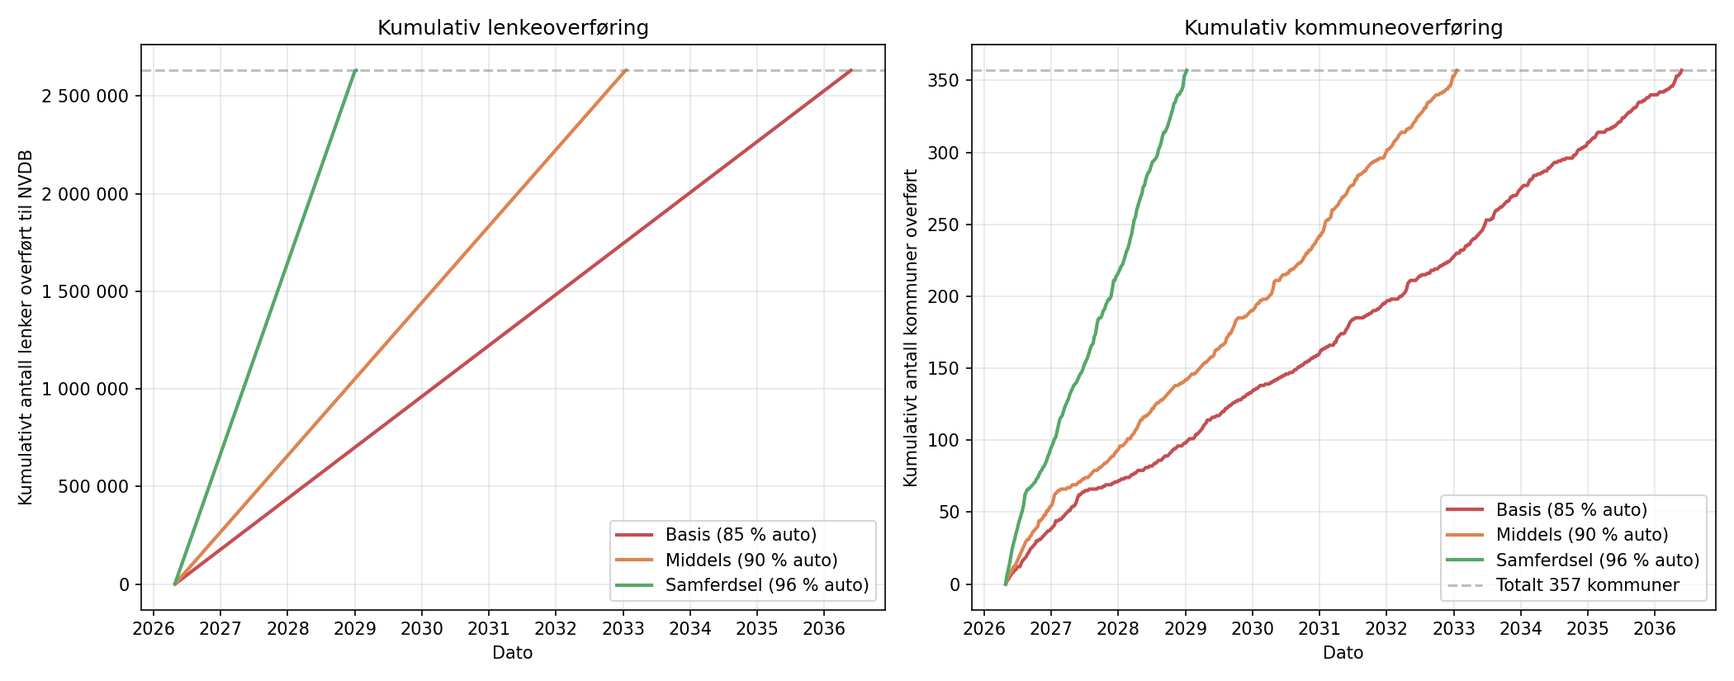
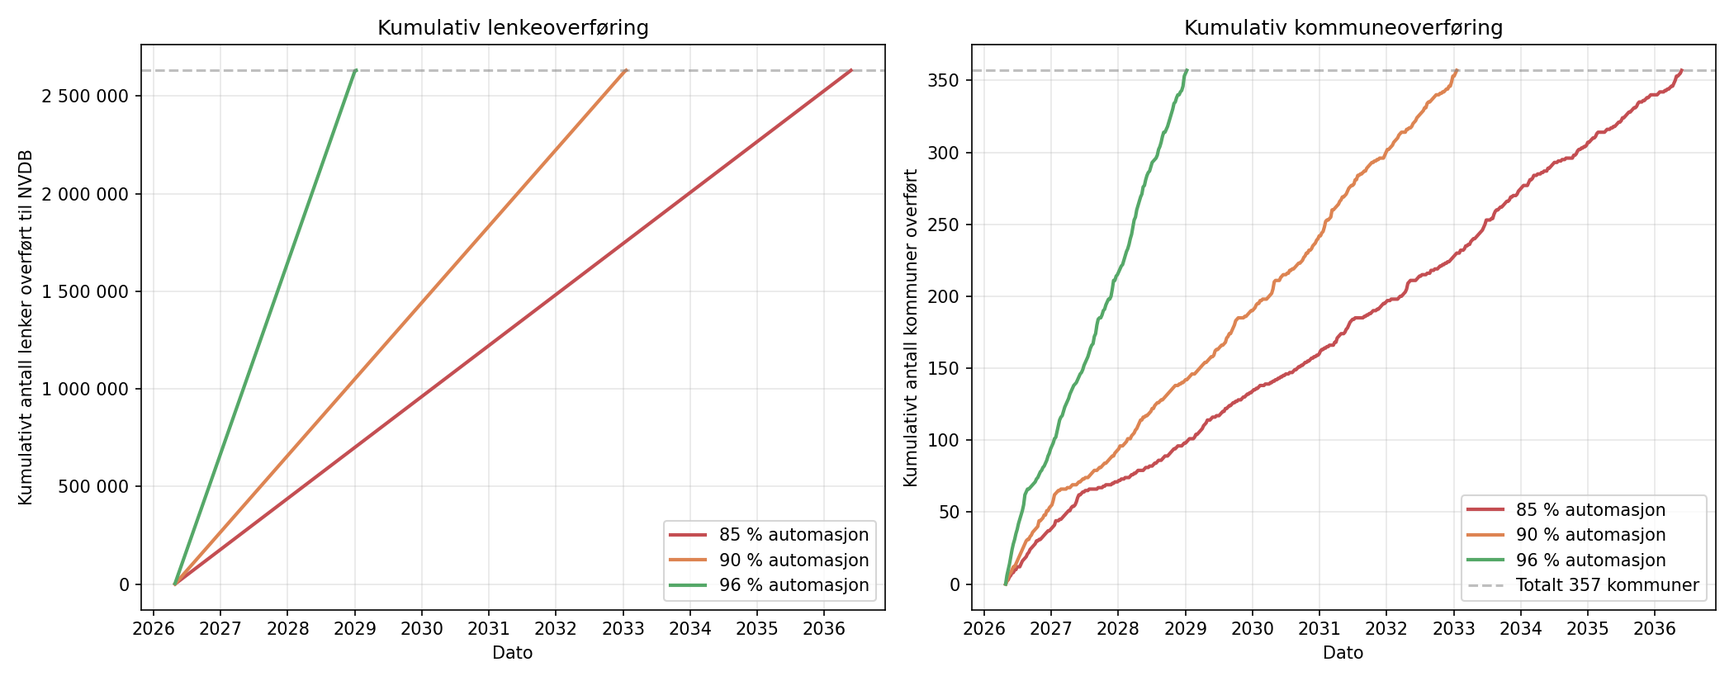
navnegrep: Basis_85/Middels_90/Samferdsel_96 -> 85/90/96 %-automasjon
Bytt CSV-interne scenarionavn med leservennlige prosent-baserte navn
i rapport.md, figur-skript og figur-PNG-er. CSV-filer og scenario-IDs
i Python-koden beholdes uendret (intern teknisk identifikator).

Endringer:
- rapport.md: 41 forekomster oppdatert
  - tabellrader: "Basis_85" -> "85 %" (osv.)
  - lopetekst: "Basis_85" -> "85 %-scenarioet" (osv.)
  - 5.1.5-tabellen restrukturert: redundant Scenario-kolonne fjernet
- figurer_resultater.py og figurer_usikkerhet.py: SCENARIO_NAVN dict oppdatert
- figurer_mip.py: ny SCENARIO_NAVN dict + vis()-hjelper, brukt i figur 14-19
- 11 PNG-figurer regenerert (07, 08, 11-16, 18, 19)

Changed region(s): [[0.8357, 0.7273, 0.9905, 0.8788], [0.3405, 0.7576, 0.4952, 0.8788]]

diff --git a/004 data/scripts/figurer_mip.py b/004 data/scripts/figurer_mip.py
@@ -38,6 +38,16 @@ FARGER = {
     'mip': '#D97706',
 }
 
+SCENARIO_NAVN = {
+    'Basis_85': '85 % automasjon',
+    'Middels_90': '90 % automasjon',
+    'Samferdsel_96': '96 % automasjon',
+}
+
+
+def vis(scenario):
+    return SCENARIO_NAVN.get(scenario, scenario)
+
 
 def aar_format(mnd):
     return f'{mnd / 12:.1f}'
@@ -62,7 +72,7 @@ def fig14_makespan_sammenligning():
         ax.text(i - w / 2, h + 0.1, f'{h:.2f}', ha='center', fontsize=9)
         ax.text(i + w / 2, m + 0.1, f'{m:.2f}', ha='center', fontsize=9)
     ax.set_xticks(x)
-    ax.set_xticklabels(scenarioer)
+    ax.set_xticklabels([vis(s) for s in scenarioer])
     ax.set_ylabel('Total varighet (aar)')
     ax.set_title('Prosjektvarighet: heuristikk vs. MIP')
     ax.legend()
@@ -80,7 +90,7 @@ def fig15_kartkontor_ferdig():
     for ax, scenario in zip(axes, ['Basis_85', 'Middels_90', 'Samferdsel_96']):
         mip_fil = os.path.join(DATA_DIR, f'tidsplan_mip_{MIP_MODE}_{scenario}.csv')
         if not os.path.exists(mip_fil):
-            ax.set_title(f'{scenario} (mangler)')
+            ax.set_title(f'{vis(scenario)} (mangler)')
             continue
         mip = pd.read_csv(mip_fil)
         heur_fil = os.path.join(DATA_DIR, f'tidsplan_{scenario}.csv')
@@ -93,7 +103,7 @@ def fig15_kartkontor_ferdig():
                 label='Heuristikk', color=FARGER['heuristikk'])
         ax.hist(mip_vals, bins=bins, alpha=0.55,
                 label='MIP', color=FARGER['mip'])
-        ax.set_title(scenario)
+        ax.set_title(vis(scenario))
         ax.set_xlabel('Kartkontor-ferdigmaaned')
         ax.legend()
         ax.grid(alpha=0.3)
@@ -128,7 +138,7 @@ def fig16_omfordeling_matrise(scenario='Middels_90'):
     ax.set_yticklabels(ordre)
     ax.set_xlabel('MIP-kontor')
     ax.set_ylabel('Ansvarlig kartkontor')
-    ax.set_title(f'Omfordeling fra ansvarlig kartkontor → MIP-kontor ({scenario})')
+    ax.set_title(f'Omfordeling fra ansvarlig kartkontor → MIP-kontor ({vis(scenario)})')
     for i in range(len(ordre)):
         for j in range(len(ordre)):
             v = matrise.values[i, j]
@@ -167,7 +177,7 @@ def fig18_kapasitet_sensitivitet():
         ax.set_xticks(range(len(sub)))
         ax.set_xticklabels(sub['Variant'], rotation=40, ha='right')
         ax.set_ylabel('Makespan (aar)')
-        ax.set_title(s)
+        ax.set_title(vis(s))
         ax.grid(axis='y', alpha=0.3)
     fig.suptitle('Kapasitets-sensitivitet: makespan per variant og NVDB-scenario')
     fn = os.path.join(FIG_DIR, '18_kapasitet_sensitivitet.png')
@@ -194,7 +204,7 @@ def fig19_omfordeling_varianter():
         sub = df[df['NVDB_Scenario'] == s].set_index('Variant').reindex(varianter)
         ax.bar(x + (i - (len(scenarioer) - 1) / 2) * w,
                sub['Kommuner_Omfordelt'], w,
-               label=s, color=FARGER.get(s, None))
+               label=vis(s), color=FARGER.get(s, None))
     ax.set_xticks(x)
     ax.set_xticklabels(varianter, rotation=35, ha='right')
     ax.set_ylabel('Antall omfordelte kommuner')

diff --git a/004 data/scripts/figurer_resultater.py b/004 data/scripts/figurer_resultater.py
@@ -31,9 +31,9 @@ plt.rcParams['font.size'] = 10
 
 SCENARIOER = ['Basis_85', 'Middels_90', 'Samferdsel_96']
 SCENARIO_NAVN = {
-    'Basis_85': 'Basis (85 % auto)',
-    'Middels_90': 'Middels (90 % auto)',
-    'Samferdsel_96': 'Samferdsel (96 % auto)',
+    'Basis_85': '85 % automasjon',
+    'Middels_90': '90 % automasjon',
+    'Samferdsel_96': '96 % automasjon',
 }
 SCENARIO_FARGER = {
     'Basis_85': '#c44e52',

diff --git a/004 data/scripts/figurer_usikkerhet.py b/004 data/scripts/figurer_usikkerhet.py
@@ -30,9 +30,9 @@ plt.rcParams['font.size'] = 10
 
 SCENARIOER = ['Basis_85', 'Middels_90', 'Samferdsel_96']
 SCENARIO_NAVN = {
-    'Basis_85': 'Basis (85 % auto)',
-    'Middels_90': 'Middels (90 % auto)',
-    'Samferdsel_96': 'Samferdsel (96 % auto)',
+    'Basis_85': '85 % automasjon',
+    'Middels_90': '90 % automasjon',
+    'Samferdsel_96': '96 % automasjon',
 }
 SCENARIO_FARGER = {
     'Basis_85': '#c44e52',

diff --git a/005 report/rapport.md b/005 report/rapport.md
@@ -181,7 +181,7 @@ Heuristikker gir gode løsninger raskt, men uten optimalitetsgaranti, og uten en
 
 Puchinger og Raidl (2005) klassifiserer kombinasjoner av metaheuristikker og eksakte algoritmer i to hovedtyper: *kollaborative* (heuristikk og eksakt-løser kjøres sekvensielt eller parallelt og utveksler informasjon), og *integrative* (én metode er innebygd i den andre, for eksempel heuristikk som varm-start for branch-and-bound). Denne oppgaven anvender en sekvensiell kollaborativ tilnærming: heuristikken gir en baseline som tjener både som rask tilnærming og som referanse for MIP-modellen, mens MIP-modellen — løst med CBC via PuLP — validerer at heuristikkens løsning ligger nær matematisk optimum.
 
-Designet gir to verdier som ingen av metodene alene leverer. Heuristikken alene gir ingen kvalitetssikring, og MIP-modellen alene har skaleringsbegrensninger ved store horisonter (Basis_85 ender Not Solved ved 30-minutters tidsgrense). Når begge metodene gir nær identisk makespan på et helt ulikt løsningsgrunnlag, er dette et sterkt validitetssignal: konvergens mellom uavhengige metoder reduserer risikoen for at et resultat er en artefakt av en bestemt modellantagelse.
+Designet gir to verdier som ingen av metodene alene leverer. Heuristikken alene gir ingen kvalitetssikring, og MIP-modellen alene har skaleringsbegrensninger ved store horisonter (85 %-scenarioet ender Not Solved ved 30-minutters tidsgrense). Når begge metodene gir nær identisk makespan på et helt ulikt løsningsgrunnlag, er dette et sterkt validitetssignal: konvergens mellom uavhengige metoder reduserer risikoen for at et resultat er en artefakt av en bestemt modellantagelse.
 
 ## 3.3 Usikkerhetsanalyse: Monte Carlo og bootstrap
 
@@ -285,7 +285,7 @@ Simuleringen kjører 260 mandag-fredag-dager per år. Kartkontorene har imidlert
 
 Konvensjonen ble låst i to trinn etter intern review og avklaring med oppdragsgiver. Først (2026-04-22) ble et skjult kapasitets-overbruk på 13 % korrigert: en tidligere versjon simulerte 260 dager/år men dividerte på 230 ved daglig kapasitet (260/230 = 1,130). Deretter (2026-04-24) ble 260-tallet erstattet med 245 etter avklaring fra oppdragsgiver om at faktiske produktive dager er ca. 245. Samlet effekt: makespan uendret i alle tre NVDB-scenarioer (NVDB dominerer flaskehalsen). Kartkontor-fasen forlenges marginalt: heuristikkens deterministiske siste-ferdigdato forskyves ~3 dager (fra 2027-09-13 til 2027-09-16), og medianvarigheten i Monte Carlo går fra 503 til 510 dager (+1,4 %). Den matematiske minimumsgrensen Min_Kartkontor_Mnd øker tilsvarende kapasitetskuttet (6,8 → 7,2 mnd, +5,9 %), men låseperiodene fra Geovekst-prosjektene absorberer mye av kuttet i de faktiske simuleringene.
 
-NVDB-overføringen beholder modellens 260-dagers kalenderkonvensjon ($\mu = \text{throughput per dag} \cdot 260/12$ lenker per måned i MIP). Samferdselsavdelingen opererer selv med 240 arbeidsdager/år i sin egen regnestykke, og det dokumenterte 240/260-gapet (modell 6,72 år vs samferdsels 7,22 år for Middels_90; ren skalering gir 7,22 × 240/260 ≈ 6,67, og modellens 6,72 ligger 0,05 år over dette pga. pre-ferdige kommuner og oppstart) er beholdt som drøftelsespoeng. Modellens relative resultater — sammenligning mellom scenarioer, sensitivitet på kapasitet, usikkerhetsbånd — er upåvirket av denne kalenderkonvensjonen; kun absolutt NVDB-varighet skifter proporsjonalt og er kjent.
+NVDB-overføringen beholder modellens 260-dagers kalenderkonvensjon ($\mu = \text{throughput per dag} \cdot 260/12$ lenker per måned i MIP). Samferdselsavdelingen opererer selv med 240 arbeidsdager/år i sin egen regnestykke, og det dokumenterte 240/260-gapet (modell 6,72 år vs samferdsels 7,22 år for 90 %-scenarioet; ren skalering gir 7,22 × 240/260 ≈ 6,67, og modellens 6,72 ligger 0,05 år over dette pga. pre-ferdige kommuner og oppstart) er beholdt som drøftelsespoeng. Modellens relative resultater — sammenligning mellom scenarioer, sensitivitet på kapasitet, usikkerhetsbånd — er upåvirket av denne kalenderkonvensjonen; kun absolutt NVDB-varighet skifter proporsjonalt og er kjent.
 
 ### 5.1.3 MIP-modellens målfunksjon
 
@@ -309,13 +309,13 @@ Manuell takt er satt til **300 lenker/person/dag** etter kalibrering mot samferd
 
 Tre NVDB-scenarioer undersøkes, differensiert på FME-automasjonsgrad som er den viktigste usikre variabelen:
 
-| Scenario | Auto | Total/dag (lenker) | Rasjonale |
-|----------|:---:|:---:|---|
-| Basis_85 | 85 % | 1 000 | Konservativ midtverdi fra samferdselsavdelingens oppgitte intervall 80–90 % |
-| Middels_90 | 90 % | 1 500 | Samferdselsavdelingens eksplisitte regnestykke (kalibreringspunkt) |
-| Samferdsel_96 | 96 % | 3 750 | Optimistisk øvre grense, bakoverregnet for å treffe et 2-års-mål |
+| FME-automasjon | NVDB-kapasitet (lenker/dag) | Rasjonale |
+|:---:|:---:|---|
+| 85 % | 1 000 | Konservativ midtverdi fra samferdselsavdelingens oppgitte intervall 80–90 % |
+| 90 % | 1 500 | Samferdselsavdelingens eksplisitte regnestykke (kalibreringspunkt) |
+| 96 % | 3 750 | Optimistisk øvre grense, bakoverregnet for å treffe et 2-års-mål |
 
-Samferdselsavdelingen opererer selv kun med 80–90 %. Samferdsel_96 er dermed ikke deres tall, men en hypotetisk målsetning for å kvantifisere hva FME-automasjon på "toppkvalitet" ville kreve. Dette gir Kartverket et argument for FME-investering: å nå fra 85 % til 96 % automasjonsgrad halverer total prosjektvarighet.
+Samferdselsavdelingen opererer selv kun med 80–90 %. 96 %-scenarioet er dermed ikke deres tall, men en hypotetisk målsetning for å kvantifisere hva FME-automasjon på "toppkvalitet" ville kreve. Dette gir Kartverket et argument for FME-investering: å nå fra 85 % til 96 % automasjonsgrad halverer total prosjektvarighet.
 
 ### 5.1.6 Monte Carlo-modellen
 
@@ -406,7 +406,7 @@ Arbeidsbelastningen varierer sterkt mellom kontorene, og også innad i hvert enk
 
 - Kapasitet oppgitt i ukesverk for 2026 antas å gjelde også for etterfølgende år i modellen.
 - Individuell effektivitet per saksbehandler er ikke modellert; kapasiteten behandles som en aggregert ressurs per kontor.
-- Samferdselsavdelingens eksplisitte regnestykke (300 lenker/dag/person manuelt, 0,5 årsverk, 240 arbeidsdager/år, 90 % automasjon) gir en estimert varighet på 7,22 år. Kalibreringen mot disse tallene (2026-04-20) fastsetter manuell takt til 300 lenker/dag og gir Middels_90-scenarioet som referansepunkt. Avvik mellom 80 % og 96 % automasjon håndteres via scenarioanalyse; måleusikkerhet innad i hvert scenario via Monte Carlo.
+- Samferdselsavdelingens eksplisitte regnestykke (300 lenker/dag/person manuelt, 0,5 årsverk, 240 arbeidsdager/år, 90 % automasjon) gir en estimert varighet på 7,22 år. Kalibreringen mot disse tallene (2026-04-20) fastsetter manuell takt til 300 lenker/dag og gir 90 %-scenarioet som referansepunkt. Avvik mellom 80 % og 96 % automasjon håndteres via scenarioanalyse; måleusikkerhet innad i hvert scenario via Monte Carlo.
 - Kommune-til-kontor-tildelingen er en beslutningsvariabel i optimeringsmodellen. Kolonnen `Kartkontor` i `master_kommuner.csv` angir dagens geografiske tildeling og brukes som baseline som den optimerte omfordelingen sammenlignes mot.
 
 ---
@@ -434,7 +434,7 @@ Regel 2 er en Longest Processing Time-heuristikk (Graham, 1969), som for paralle
 **Steg 3: Dag-for-dag-simulering.** For hver arbeidsdag:
 
 - Hvert kontor arbeider på første ikke-låste kommune i køen med daglig kapasitet $\kappa_j = K_j \cdot 37{,}5 \cdot (245/260) / 260$ timer (der $K_j$ er oppgitt kapasitet i ukesverk, 260 er antall mandag-fredag-dager per år, og 245/260-faktoren reflekterer at kontorene har ca. 245 effektive arbeidsdager pga ferieuttak — se 5.1.2). Når en kommune når 0 gjenværende timer, flyttes den til NVDB-køen.
-- Hvis dagen er etter NVDB-startdato, drenerer NVDB-køen med scenariets kapasitet (1 000 / 1 500 / 3 750 lenker/dag for hhv. Basis_85 / Middels_90 / Samferdsel_96 etter kalibrering mot samferdselsavdelingens tall, jf. 5.1.4).
+- Hvis dagen er etter NVDB-startdato, drenerer NVDB-køen med scenariets kapasitet (1 000 / 1 500 / 3 750 lenker/dag for hhv. 85 %, 90 % og 96 %-scenarioet etter kalibrering mot samferdselsavdelingens tall, jf. 5.1.4).
 
 **Bevisste forenklinger.** Heuristikken modellerer ikke ferier/pauser, individuell effektivitet eller oppstartskostnad ved kommuneskifte. Ansvarskontor-tildelingen er status quo (baseline) — omfordeling er en kjernebeslutning som undersøkes i MIP. Prioritetskøen fastsettes én gang ved simuleringsstart og revurderes ikke når låseperioder utløper; dette er en bevisst myopisk forenkling som MIP-modellen ikke deler, fordi MIP ser over hele horisonten. NVDB-køen bygges i rekkefølgen kommunene blir ferdige på kartkontoret (FCFS) — store kommuner tar lengst tid og havner dermed implisitt bakerst i NVDB-overføringen. Samferdselsavdelingen kan teoretisk prioritere annerledes, men reell NVDB-rekkefølge er utenfor prosjektets omfang.
 
@@ -446,7 +446,7 @@ Den matematiske optimeringsmodellen er formulert som et blandet heltallsproblem 
 
 - $I$ = aktive kommuner (ikke pre-ferdige), $|I| = 295$
 - $J$ = kartkontor, $|J| = 10$
-- $T$ = tidshorisont i måneder (144 for Basis_85, 96 for Middels_90, 54 for Samferdsel_96 — valgt med buffer over forventet makespan)
+- $T$ = tidshorisont i måneder (144 for 85 %-scenarioet, 96 for 90 %, 54 for 96 % — valgt med buffer over forventet makespan)
 - $\tau_i$ = timebehov på kartkontor for kommune *i*
 - $\ell_i$ = antall lenker som skal overføres til NVDB
 - $\kappa_j$ = månedlig kartkontor-kapasitet for kontor *j*: $K_j \cdot 37{,}5 \cdot (245/260) / 12$ timer/måned (tilsvarer heuristikkens daglige kapasitet × 260/12; 245/260-faktoren reflekterer effektive arbeidsdager, se 5.1.2)
@@ -543,7 +543,7 @@ To former for sensitivitet utforskes:
 
 ## 6.4 Implementeringsdetaljer
 
-Heuristikken (`heuristikk.py`) og Monte Carlo-motoren (`monte_carlo.py`) er implementert i Python 3.13 med pandas og numpy. MIP-modellen (`mip_modell.py`) bruker PuLP 3.3 med CBC som solver (versjon 2.10.3, gratis og innebygd i PuLP). Solver-tidsgrensen er satt til 30 minutter per scenario med relativ MIP-gap-toleranse 0,1 %; Middels_90 og Samferdsel_96 løser *Optimal* innen henholdsvis 16 og 10 minutter, mens Basis_85 ender som *Not Solved* etter 30 minutter (faktisk kjøretid drøyt 38 minutter pga. CBC-overshoot på siste B&B-node).
+Heuristikken (`heuristikk.py`) og Monte Carlo-motoren (`monte_carlo.py`) er implementert i Python 3.13 med pandas og numpy. MIP-modellen (`mip_modell.py`) bruker PuLP 3.3 med CBC som solver (versjon 2.10.3, gratis og innebygd i PuLP). Solver-tidsgrensen er satt til 30 minutter per scenario med relativ MIP-gap-toleranse 0,1 %; 90 % og 96 %-scenarioet løser *Optimal* innen henholdsvis 16 og 10 minutter, mens 85 %-scenarioet ender som *Not Solved* etter 30 minutter (faktisk kjøretid drøyt 38 minutter pga. CBC-overshoot på siste B&B-node).
 
 ---
 
@@ -551,15 +551,15 @@ Heuristikken (`heuristikk.py`) og Monte Carlo-motoren (`monte_carlo.py`) er impl
 
 ## 7.1 MIP vs. heuristikk — makespan
 
-Tabell 7.1 sammenligner total prosjektvarighet for heuristikken og MIP-modellen over de tre NVDB-scenarioene. MIP-modellen bruker vektet målfunksjon med tre lex-nivåer: makespan, kartkontor-ferdigtid og inertia (bevar ansvarskontor-tildelingen ved like løsninger). Middels_90 og Samferdsel_96 løser *Optimal* innen henholdsvis 16 og 10 minutter; Basis_85 ender som *Not Solved* ved 30-minutters tidsgrense (faktisk kjøretid drøyt 38 minutter siden CBC fullfører gjeldende B&B-node etter timeout), men returnerer en gyldig IP-feasible løsning hvor makespan er big-M-koblet til Q-variablene og dermed robust (jf. 7.4). Forskjellen i status mellom scenarioene reflekterer at lavere NVDB-throughput gir lengre horisont (T = 144 vs 96 vs 54 måneder) og dermed flere variabler.
+Tabell 7.1 sammenligner total prosjektvarighet for heuristikken og MIP-modellen over de tre NVDB-scenarioene. MIP-modellen bruker vektet målfunksjon med tre lex-nivåer: makespan, kartkontor-ferdigtid og inertia (bevar ansvarskontor-tildelingen ved like løsninger). 90 % og 96 %-scenarioet løser *Optimal* innen henholdsvis 16 og 10 minutter; 85 %-scenarioet ender som *Not Solved* ved 30-minutters tidsgrense (faktisk kjøretid drøyt 38 minutter siden CBC fullfører gjeldende B&B-node etter timeout), men returnerer en gyldig IP-feasible løsning hvor makespan er big-M-koblet til Q-variablene og dermed robust (jf. 7.4). Forskjellen i status mellom scenarioene reflekterer at lavere NVDB-throughput gir lengre horisont (T = 144 vs 96 vs 54 måneder) og dermed flere variabler.
 
 *Tabell 7.1 Makespan per metode og NVDB-scenario*
 
 | Scenario | Heuristikk (år) | MIP (år) | Differanse | MIP-status |
 |----------|:---:|:---:|:---:|:---:|
-| Basis_85 | 10,08 | 10,17 | +0,09 (+0,9 %) | Not Solved |
-| Middels_90 | 6,72 | 6,75 | +0,03 (+0,4 %) | Optimal |
-| Samferdsel_96 | 2,69 | 2,75 | +0,06 (+2,2 %) | Optimal |
+| 85 % | 10,08 | 10,17 | +0,09 (+0,9 %) | Not Solved |
+| 90 % | 6,72 | 6,75 | +0,03 (+0,4 %) | Optimal |
+| 96 % | 2,69 | 2,75 | +0,06 (+2,2 %) | Optimal |
 
 Alle differansene er under 2,5 % og skyldes MIP-modellens månedlige tidsoppløsning (hver måned avrundes opp ved kollisjon med NVDB-drenering). I praksis gir de to metodene *tilnærmet identisk makespan*. Dette er et positivt funn: **MIP bekrefter at heuristikkens ansvarskontor-tildeling er nær-optimal for makespan**, snarere enn å gi en reell forbedring. MIP-modellens bidrag er altså todelt — den leverer en uavhengig verifikasjon av heuristikken, og den leverer en komprimert kartkontor-ferdigprofil via lex-opt-prioritet (se 7.2). Figur 14 visualiserer resultatene.
 
@@ -567,7 +567,7 @@ Alle differansene er under 2,5 % og skyldes MIP-modellens månedlige tidsoppløs
 
 *Figur 14 Total varighet heuristikk vs MIP per NVDB-scenario*
 
-Bak makespan-tallene ligger NVDB-køens utvikling over tid (figur 7). Pre-ferdige kommuner gir en initiell kø-topp idet NVDB-overføringen starter; toppen bygges deretter ned i takt med den daglige throughput-kapasiteten i hvert scenario. Forskjellen mellom Basis_85, Middels_90 og Samferdsel_96 framkommer som tre tydelig adskilte nedbygningskurver. Figur 8 viser samme historie kumulativt for både lenker og kommuner, og illustrerer hvor mye raskere full overføring er ferdig ved høyere FME-automasjon.
+Bak makespan-tallene ligger NVDB-køens utvikling over tid (figur 7). Pre-ferdige kommuner gir en initiell kø-topp idet NVDB-overføringen starter; toppen bygges deretter ned i takt med den daglige throughput-kapasiteten i hvert scenario. Forskjellen mellom 85 %-, 90 %- og 96 %-scenarioene framkommer som tre tydelig adskilte nedbygningskurver. Figur 8 viser samme historie kumulativt for både lenker og kommuner, og illustrerer hvor mye raskere full overføring er ferdig ved høyere FME-automasjon.
 
 ![Figur 7: NVDB-koe over tid](figurer/07_nvdb_ko.png)
 
@@ -579,7 +579,7 @@ Bak makespan-tallene ligger NVDB-køens utvikling over tid (figur 7). Pre-ferdig
 
 ## 7.2 Kartkontor-ferdigstilling
 
-Heuristikken og MIP gir samme totalvarighet, men forskjellig profil for når kartkontor-arbeidet er ferdig. Figur 15 viser fordelingen: heuristikken ferdigstiller alle kommuner på kartkontoret innen ca. 16,5 måneder (medianverdi 4–5 måneder), mens MIP-planen — med den vektede målfunksjonen som straffer sen kartkontor-ferdigtid — komprimerer kartkontor-arbeidet ytterligere til innen 10–11 måneder (median 4 måneder). Begge er realistiske fra et ressursforvaltningssynspunkt: NVDB-delen alene tar 2,7–10,2 år avhengig av automasjonsgrad, så kartkontorene rekker uansett å levere alt materiale lenge før NVDB er ferdig. Monte Carlo på MIP-assignment bekrefter dette kvantitativt: kartkontor-ferdigstillelsens median flyttes fra 510 dager (heuristikk) ned til 409–452 dager på MIP-planen (Basis_85 452, Middels_90 445, Samferdsel_96 409), altså omtrent to til tre måneder raskere avhengig av scenario — en konkret organisatorisk gevinst som ikke reduserer total prosjektvarighet, men som frigjør saksbehandlere til andre oppgaver tidligere.
+Heuristikken og MIP gir samme totalvarighet, men forskjellig profil for når kartkontor-arbeidet er ferdig. Figur 15 viser fordelingen: heuristikken ferdigstiller alle kommuner på kartkontoret innen ca. 16,5 måneder (medianverdi 4–5 måneder), mens MIP-planen — med den vektede målfunksjonen som straffer sen kartkontor-ferdigtid — komprimerer kartkontor-arbeidet ytterligere til innen 10–11 måneder (median 4 måneder). Begge er realistiske fra et ressursforvaltningssynspunkt: NVDB-delen alene tar 2,7–10,2 år avhengig av automasjonsgrad, så kartkontorene rekker uansett å levere alt materiale lenge før NVDB er ferdig. Monte Carlo på MIP-assignment bekrefter dette kvantitativt: kartkontor-ferdigstillelsens median flyttes fra 510 dager (heuristikk) ned til 409–452 dager på MIP-planen (85 %-scenarioet 452, 90 % 445, 96 % 409), altså omtrent to til tre måneder raskere avhengig av scenario — en konkret organisatorisk gevinst som ikke reduserer total prosjektvarighet, men som frigjør saksbehandlere til andre oppgaver tidligere.
 
 ![Figur 15: Fordeling av kartkontor-ferdigmåned heuristikk vs MIP per NVDB-scenario](figurer/15_kartkontor_ferdig.png)
 
@@ -593,11 +593,11 @@ Figur 10 viser kartkontorenes kumulative fremdrift over tid for baseline-heurist
 
 ## 7.3 Omfordeling mellom kontor
 
-MIP-modellen har full frihet til å reassigne kommuner mellom kartkontor, men inertia-tie-breakeren favoriserer ansvarskontor-tildelingen i tilfeller hvor flere løsninger gir samme makespan. Resultatet (figur 16) viser at 27–71 kommuner flyttes avhengig av scenario, men disse er hovedsakelig tie-breakere for kartkontor-ferdigtid: ingen kommuner *må* omfordeles for å oppnå optimal makespan. Antallet varierer mellom 27 (Basis_85) og 71 (Samferdsel_96) på tvers av scenarioene; mønsteret reflekterer i hovedsak at vektet objektiv har flere likeverdige incumbenter, og CBC kan velge ulike kombinasjoner per scenario. Diagonalen dominerer i matrisen — kommuner blir i hovedsak værende på ansvarlig kartkontor — noe som bekrefter at status quo-tildelingen er nær-optimal. Det er verdt å merke at modellen regner omfordeling som "gratis" — den reelle organisatoriske kostnaden av at en kommune flyttes fra sitt geografiske fylkeskartkontor til et annet (arbeidskjennskap, kommunikasjon, kartverksprosesser) er ikke modellert og drøftes i 9.0.
+MIP-modellen har full frihet til å reassigne kommuner mellom kartkontor, men inertia-tie-breakeren favoriserer ansvarskontor-tildelingen i tilfeller hvor flere løsninger gir samme makespan. Resultatet (figur 16) viser at 27–71 kommuner flyttes avhengig av scenario, men disse er hovedsakelig tie-breakere for kartkontor-ferdigtid: ingen kommuner *må* omfordeles for å oppnå optimal makespan. Antallet varierer mellom 27 (85 %-scenarioet) og 71 (96 %) på tvers av scenarioene; mønsteret reflekterer i hovedsak at vektet objektiv har flere likeverdige incumbenter, og CBC kan velge ulike kombinasjoner per scenario. Diagonalen dominerer i matrisen — kommuner blir i hovedsak værende på ansvarlig kartkontor — noe som bekrefter at status quo-tildelingen er nær-optimal. Det er verdt å merke at modellen regner omfordeling som "gratis" — den reelle organisatoriske kostnaden av at en kommune flyttes fra sitt geografiske fylkeskartkontor til et annet (arbeidskjennskap, kommunikasjon, kartverksprosesser) er ikke modellert og drøftes i 9.0.
 
-![Figur 16: Omfordeling fra ansvarlig kartkontor til MIP-kontor for Middels_90](figurer/16_omfordeling_matrise.png)
+![Figur 16: Omfordeling fra ansvarlig kartkontor til MIP-kontor for 90 %-scenarioet](figurer/16_omfordeling_matrise.png)
 
-*Figur 16 Omfordeling fra ansvarlig kartkontor til MIP-kontor for Middels_90*
+*Figur 16 Omfordeling fra ansvarlig kartkontor til MIP-kontor for 90 %-scenarioet*
 
 ## 7.4 Kapasitets-sensitivitet
 
@@ -607,7 +607,7 @@ Figur 18 og 19 viser resultatet av sensitivitetsanalysen der kapasitet ved ett e
 
 Også kartkontor-ferdigmåneden er lite sensitiv til de undersøkte kapasitetsvariasjonene. I S0–S4 holder den seg i området 10–11 måneder; bare i S5_Alle_minus50 forskyves den til 14 måneder (matematisk nedre grense 14,4). Hovedårsaken er at låseperiodene fra Geovekst-prosjektene tvinger kontorene til å vente på mange kommuner uansett, slik at kontorene har romslig ledig tid å fordele arbeidet på innenfor den tiden NVDB-overføringen uansett tar.
 
-Av CBC-solverens 18 kjøringer løste 9 *Optimal* innen tidsgrensen (baseline S0 for Middels_90 og Samferdsel_96, S1_Trondheim50 for Middels_90, alle tre scenarioer for S2_Alle_pluss20, S3_Omfordeling for Middels_90 og Samferdsel_96, samt S4_Alle_minus15 for Basis_85); de resterende 9 endte med *Not Solved* ved 30-minutters timeout. Den vektede målfunksjonen gjør at CBC bevarer gyldige IP-feasible incumbenter selv ved timeout, så makespan-tallene er robuste (de er big-M-koblede til Q-variablene og styres av NVDB-drenering). For omfordelings- og kartkontor-ferdigtallene i Not Solved-variantene kan tallene være suboptimale uten at dette er bevist, så presise sammenligninger mellom varianter bør begrenses til ratio-nivå. S5_Alle_minus50 rapporterer Kartkontor_Siste_Mnd = 14 mot matematisk minimum 14,4 — en plausibel IP-feasible løsning, men ikke bevist optimal. Dette gir en konkret indikasjon på hvor kartkontor-fasen begynner å nærme seg det kapasitetsbundne regimet (ytterligere kutt under 50 % kapasitet ville med høy sannsynlighet tippe over i kartkontor-bundet regime).
+Av CBC-solverens 18 kjøringer løste 9 *Optimal* innen tidsgrensen (baseline S0 for 90 %- og 96 %-scenarioet, S1_Trondheim50 for 90 %, alle tre scenarioer for S2_Alle_pluss20, S3_Omfordeling for 90 % og 96 %, samt S4_Alle_minus15 for 85 %); de resterende 9 endte med *Not Solved* ved 30-minutters timeout. Den vektede målfunksjonen gjør at CBC bevarer gyldige IP-feasible incumbenter selv ved timeout, så makespan-tallene er robuste (de er big-M-koblede til Q-variablene og styres av NVDB-drenering). For omfordelings- og kartkontor-ferdigtallene i Not Solved-variantene kan tallene være suboptimale uten at dette er bevist, så presise sammenligninger mellom varianter bør begrenses til ratio-nivå. S5_Alle_minus50 rapporterer Kartkontor_Siste_Mnd = 14 mot matematisk minimum 14,4 — en plausibel IP-feasible løsning, men ikke bevist optimal. Dette gir en konkret indikasjon på hvor kartkontor-fasen begynner å nærme seg det kapasitetsbundne regimet (ytterligere kutt under 50 % kapasitet ville med høy sannsynlighet tippe over i kartkontor-bundet regime).
 
 ![Figur 18: Makespan per kapasitetsvariant og NVDB-scenario](figurer/18_kapasitet_sensitivitet.png)
 
@@ -627,15 +627,15 @@ Antallet omfordelte kommuner varierer mellom variantene (figur 19), noe som refl
 
 ## 7.5 Usikkerhetsanalyse
 
-Monte Carlo-simuleringen (500 iterasjoner per scenario × tre stokastiske kilder) kjøres både med heuristikkens ansvarskontor-tildeling og med MIP-ens optimerte tildeling som fast plan. Totalvarighet-båndene er overlappende og nær identiske (tabell 7.2). For Basis_85 og Middels_90 gir de to planene *identiske* percentiler (P5 / P50 / P95). For Samferdsel_96 er P5 marginalt bedre på MIP-planen (1,10 år vs 1,38), mens P50 og P95 er like. Dette viser at de to tildelingsregimene er omtrent likeverdige når det gjelder robusthet mot modellens stokastiske kilder, siden NVDB-overføringen dominerer varigheten i alle iterasjoner. Kartkontor-fasen blir derimot merkbart raskere på MIP-planen (P50 kartkontor-varighet 409–452 dager mot heuristikkens 510 dager) — en konsekvens av MIPens mer aktive omfordeling. Denne forskjellen er skjult i total varighet fordi NVDB-slakken absorberer den, men er reell fra et organisatorisk synspunkt.
+Monte Carlo-simuleringen (500 iterasjoner per scenario × tre stokastiske kilder) kjøres både med heuristikkens ansvarskontor-tildeling og med MIP-ens optimerte tildeling som fast plan. Totalvarighet-båndene er overlappende og nær identiske (tabell 7.2). For 85 %- og 90 %-scenarioet gir de to planene *identiske* percentiler (P5 / P50 / P95). For 96 %-scenarioet er P5 marginalt bedre på MIP-planen (1,10 år vs 1,38), mens P50 og P95 er like. Dette viser at de to tildelingsregimene er omtrent likeverdige når det gjelder robusthet mot modellens stokastiske kilder, siden NVDB-overføringen dominerer varigheten i alle iterasjoner. Kartkontor-fasen blir derimot merkbart raskere på MIP-planen (P50 kartkontor-varighet 409–452 dager mot heuristikkens 510 dager) — en konsekvens av MIPens mer aktive omfordeling. Denne forskjellen er skjult i total varighet fordi NVDB-slakken absorberer den, men er reell fra et organisatorisk synspunkt.
 
 *Tabell 7.2 Usikkerhetsbånd totalvarighet (P5 / P50 / P95, år) – MIP-plan og heuristikk-plan*
 
 | Scenario | MIP-plan | Heuristikk-plan |
 |----------|:---:|:---:|
-| Basis_85 | 6,46 / 10,01 / 13,28 | 6,46 / 10,01 / 13,28 |
-| Middels_90 | 3,25 / 6,67 / 9,91 | 3,25 / 6,67 / 9,91 |
-| Samferdsel_96 | 1,10 / 2,36 / 5,88 | 1,38 / 2,36 / 5,88 |
+| 85 % | 6,46 / 10,01 / 13,28 | 6,46 / 10,01 / 13,28 |
+| 90 % | 3,25 / 6,67 / 9,91 | 3,25 / 6,67 / 9,91 |
+| 96 % | 1,10 / 2,36 / 5,88 | 1,38 / 2,36 / 5,88 |
 
 Figur 11 visualiserer Monte Carlo-fordelingen av NVDB-overføringen som et fanchart, der det skyggelagte området angir P5–P95-båndet og medianlinjen viser sentralverdien. Båndets bredde reflekterer hvor mye automasjonsgrad og manuell takt sammen varierer på tvers av iterasjonene. Figur 12 viser fordelingen av total prosjektvarighet per scenario som histogrammer, og figur 13 viser hvordan medianverdi for NVDB-ferdigdato per kommune varierer på tvers av kartkontorene.
 
@@ -649,9 +649,9 @@ Figur 11 visualiserer Monte Carlo-fordelingen av NVDB-overføringen som et fanch
 
 ![Figur 13: Per-kontor boxplot av median NVDB-ferdig per kommune](figurer/13_per_kontor_boxplot.png)
 
-*Figur 13 Spredning i median NVDB-ferdigdato per kommune, gruppert på kartkontor (Middels_90)*
+*Figur 13 Spredning i median NVDB-ferdigdato per kommune, gruppert på kartkontor (90 %-scenarioet)*
 
-Den dominerende usikkerhetskilden er automasjonsgraden i FME-overføringen (jf. figur 11–13). Med den kalibrerte måleusikkerheten (AUTOMASJON_STD = 0,03) overlapper scenariobåndene realistisk: P95 for Samferdsel_96 (5,88 år) ligger over P5 for Middels_90 (3,25 år), og P95 for Middels_90 (9,91 år) ligger over P5 for Basis_85 (6,46 år). Dette speiler den faktiske usikkerheten i hvor mye FME-automasjonen kan presses. *Valget av automasjonsgrad forblir den viktigste strategiske faktoren* for totalvarigheten — men usikkerhetsintervallene viser at det er betydelig spillerom innenfor hvert scenario også, og at god FME-utvikling kan forskyve punktestimatet betydelig.
+Den dominerende usikkerhetskilden er automasjonsgraden i FME-overføringen (jf. figur 11–13). Med den kalibrerte måleusikkerheten (AUTOMASJON_STD = 0,03) overlapper scenariobåndene realistisk: P95 for 96 %-scenarioet (5,88 år) ligger over P5 for 90 % (3,25 år), og P95 for 90 % (9,91 år) ligger over P5 for 85 % (6,46 år). Dette speiler den faktiske usikkerheten i hvor mye FME-automasjonen kan presses. *Valget av automasjonsgrad forblir den viktigste strategiske faktoren* for totalvarigheten — men usikkerhetsintervallene viser at det er betydelig spillerom innenfor hvert scenario også, og at god FME-utvikling kan forskyve punktestimatet betydelig.
 
 ---
 
@@ -662,14 +662,14 @@ Den dominerende usikkerhetskilden er automasjonsgraden i FME-overføringen (jf. 
 Den hybride løsningsmetoden (regelbasert heuristikk + MIP-verifikasjon + Monte Carlo) gir følgende hovedresultater, etter kalibrering mot samferdselsavdelingens egne tall (manuell takt 300 lenker/dag):
 
 1. **Total prosjektvarighet (deterministisk estimat, heuristikk / MIP):**
-   - Basis_85 (85 % FME-automasjon): **10,08 / 10,17 år**
-   - Middels_90 (90 % automasjon): **6,72 / 6,75 år** — samsvarer med samferdselsavdelingens eksplisitte regnestykke på 7,22 år (gapet er 240-vs-260-dagers kalenderkonvensjon, jf. 5.1.2)
-   - Samferdsel_96 (96 % automasjon): **2,69 / 2,75 år** — optimistisk øvre grense bakoverregnet mot et 2-års-mål
+   - 85 %-scenarioet: **10,08 / 10,17 år**
+   - 90 %-scenarioet: **6,72 / 6,75 år** — samsvarer med samferdselsavdelingens eksplisitte regnestykke på 7,22 år (gapet er 240-vs-260-dagers kalenderkonvensjon, jf. 5.1.2)
+   - 96 %-scenarioet: **2,69 / 2,75 år** — optimistisk øvre grense bakoverregnet mot et 2-års-mål
 
 2. **Usikkerhetsbånd (P5 / P50 / P95 fra 500 Monte Carlo-iterasjoner):**
-   - Basis_85: 6,46 / 10,01 / 13,28 år
-   - Middels_90: 3,25 / 6,67 / 9,91 år
-   - Samferdsel_96: 1,38 / 2,36 / 5,88 år
+   - 85 %-scenarioet: 6,46 / 10,01 / 13,28 år
+   - 90 %-scenarioet: 3,25 / 6,67 / 9,91 år
+   - 96 %-scenarioet: 1,38 / 2,36 / 5,88 år
 
 3. **Omfordeling mellom kartkontor:** gir *ingen* forbedring i total makespan i noen av de tre NVDB-scenarioene. MIP-modellen bekrefter at heuristikkens ansvarskontor-tildeling er nær-optimal (innenfor 2,2 % av MIP-ens løsning, forskjellen skyldes tidsoppløsning, ikke assignment). **MIP-modellens bidrag er å verifisere heuristikken og komprimere kartkontor-ferdigprofilen**, ikke å redusere totalvarighet.
 
@@ -679,11 +679,11 @@ Den hybride løsningsmetoden (regelbasert heuristikk + MIP-verifikasjon + Monte 
 
 ## 8.2 Scenario-sammenligning
 
-Figur 14 viser makespan for heuristikk og MIP side om side. De tre NVDB-scenarioene gir delvis overlappende P5–P95-intervaller når realistisk måleusikkerhet på automasjonsgraden tas med (±3 prosentpoeng): P95 for Samferdsel_96 (5,88 år) ligger over P5 for Middels_90 (3,25 år). Overlappet reflekterer at FME-automasjonen er et kontinuum snarere enn en diskret beslutning — men *valg av målsetting for automasjonsgraden* forblir den dominante strategiske beslutningen, ettersom punktestimatene skiller seg med faktor 3,7×.
+Figur 14 viser makespan for heuristikk og MIP side om side. De tre NVDB-scenarioene gir delvis overlappende P5–P95-intervaller når realistisk måleusikkerhet på automasjonsgraden tas med (±3 prosentpoeng): P95 for 96 %-scenarioet (5,88 år) ligger over P5 for 90 % (3,25 år). Overlappet reflekterer at FME-automasjonen er et kontinuum snarere enn en diskret beslutning — men *valg av målsetting for automasjonsgraden* forblir den dominante strategiske beslutningen, ettersom punktestimatene skiller seg med faktor 3,7×.
 
 ## 8.3 Robusthet mot kapasitetsforstyrrelser
 
-Figur 18 viser at makespan er uendret for alle seks kapasitetsvarianter (S0–S5) i alle tre NVDB-scenarioer. 9 av 18 kjøringer løser *Optimal* (S0 for Middels_90 og Samferdsel_96, S1_Trondheim50 for Middels_90, alle tre scenarioer for S2_Alle_pluss20, S3_Omfordeling for Middels_90 og Samferdsel_96, samt S4_Alle_minus15 for Basis_85); de øvrige timer ut ved 30-minuttersgrensen med CBC-solver, men makespan-tallene er robuste fordi de er big-M-gated til NVDB-drenering (jf. 7.4).
+Figur 18 viser at makespan er uendret for alle seks kapasitetsvarianter (S0–S5) i alle tre NVDB-scenarioer. 9 av 18 kjøringer løser *Optimal* (S0 for 90 % og 96 %, S1_Trondheim50 for 90 %, alle tre scenarioer for S2_Alle_pluss20, S3_Omfordeling for 90 % og 96 %, samt S4_Alle_minus15 for 85 %); de øvrige timer ut ved 30-minuttersgrensen med CBC-solver, men makespan-tallene er robuste fordi de er big-M-gated til NVDB-drenering (jf. 7.4).
 
 Kartkontor-ferdigmåneden er også stabil på 10–11 måneder i S0–S4. Først ved halvering av all kapasitet (S5_Alle_minus50) forskyves den til 14 måneder. Årsaken er låseperiodene fra Geovekst-prosjektene, som tvinger kontorene til å stå tomhendte på 152 kommuner i deler av 2026. Denne ufrivillige slakken absorberer mye av kapasitetskuttet, slik at kartkontor-fasen holder seg kort og NVDB-flaskehalsen fortsatt dominerer. Det kapasitetsbundne regimet ligger dermed *lenger unna* enn man umiddelbart skulle tro ut fra nominelle kapasitetstall alene — et funn som i seg selv er et argument for robustheten av dagens plan.
 
@@ -697,7 +697,7 @@ Fra et beredskapssynspunkt gir dette Kartverket trygghet i planleggingen. Dersom
 
 Modellen leverer et klart og robust hovedbudskap: **NVDB-overføringen er flaskehalsen, ikke kartkontor-fasen**. Dette holder uansett hvilket av de tre scenarioene som realiseres, og uansett rimelige kapasitetsforstyrrelser på kartkontorene. Total prosjektvarighet bestemmes av hvor effektiv FME-automasjonen blir og hvor mye manuell kapasitet samferdselsavdelingen kan sette av til prosjektet. Kartverkets ressurser bør derfor primært settes inn på FME-utvikling og på å øke den manuelle bemanningen utover 0,5 årsverk, ikke på å balansere eller utvide fylkeskartkontorene.
 
-Kalibreringen mot samferdselsavdelingens eksplisitte regnestykke (300 lenker/dag, 240 arbeidsdager/år, 90 % automasjon → 7,22 år) viser at modellens punktestimat for Middels_90 (6,72 år med prosjektets 260-dagers konvensjon) er kvantitativt konsistent med samferdselsavdelingens tall. Gapet på 0,5 år skyldes hovedsakelig den ulike kalenderkonvensjonen (ren skalering 7,22 × 240/260 ≈ 6,67), og resterende 0,05 år til modelldetaljer som pre-ferdige kommuner og oppstart — ikke modell-feil. Modellen er altså *validert mot et eksternt benchmark*.
+Kalibreringen mot samferdselsavdelingens eksplisitte regnestykke (300 lenker/dag, 240 arbeidsdager/år, 90 % automasjon → 7,22 år) viser at modellens punktestimat for 90 %-scenarioet (6,72 år med prosjektets 260-dagers konvensjon) er kvantitativt konsistent med samferdselsavdelingens tall. Gapet på 0,5 år skyldes hovedsakelig den ulike kalenderkonvensjonen (ren skalering 7,22 × 240/260 ≈ 6,67), og resterende 0,05 år til modelldetaljer som pre-ferdige kommuner og oppstart — ikke modell-feil. Modellen er altså *validert mot et eksternt benchmark*.
 
 ## 9.2 Tidbruk-formelens identifiserbarhet
 
@@ -711,13 +711,13 @@ Alle timer-estimater bygger på formelen `Ber_Tidbruk_Min = Km_Kurve × 0,9035 +
 
 Samlet kan formelen underestimere reell tidsbruk med faktor opptil ~2. For å teste om hovedkonklusjonen (NVDB-flaskehalsen) overlever en slik skalering er heuristikken og Monte Carlo kjørt for alle tre NVDB-scenarioer med skaleringsfaktor 1,5 og 2,0 på `Ber_Tidbruk_Min` (`heuristikk_tidbruk_sensitivitet.py`, `monte_carlo_tidbruk_sensitivitet.py`).
 
-| Skala | Kartkontor P50 (mnd) | Basis_85 P50/P95 (år) | Middels_90 P50/P95 (år) | Samferdsel_96 P50/P95 (år) |
+| Skala | Kartkontor P50 (mnd) | 85 % P50/P95 (år) | 90 % P50/P95 (år) | 96 % P50/P95 (år) |
 |-------|----------------------|------------------------|--------------------------|-----------------------------|
 | 1,0 (baseline) | 16,8 | 10,01 / 13,28 | 6,67 / 9,91 | 2,36 / 5,88 |
 | 1,5 | 21,1 | 10,01 / 13,28 | 6,67 / 9,93 | 2,68 / 5,86 |
 | 2,0 | 28,2 | 10,01 / 13,28 | 6,67 / 9,93 | 2,75 / 5,86 |
 
-Kartkontor-fasen vokser proporsjonalt med skala (Monte Carlo P50: 16,8 → 21,1 → 28,2 måneder), men **total varighet (NVDB-makespan) er praktisk talt uendret** for Basis_85 og Middels_90 i alle tre kjøringer. Bare for Samferdsel_96 — der NVDB er minst flaskehals — presses P5 opp fra 1,38 til 2,15 år ved skala 2, fordi kartkontor-tiden begynner å bestemme ferdigdatoen i de raskeste iterasjonene. Hovedbudskapet "NVDB er flaskehalsen" overlever altså en dobling av tidbruk-formelen for de to mest realistiske scenarioene, mens det svekkes marginalt i det optimistiske 96 %-scenarioet.
+Kartkontor-fasen vokser proporsjonalt med skala (Monte Carlo P50: 16,8 → 21,1 → 28,2 måneder), men **total varighet (NVDB-makespan) er praktisk talt uendret** for 85 %- og 90 %-scenarioet i alle tre kjøringer. Bare for 96 %-scenarioet — der NVDB er minst flaskehals — presses P5 opp fra 1,38 til 2,15 år ved skala 2, fordi kartkontor-tiden begynner å bestemme ferdigdatoen i de raskeste iterasjonene. Hovedbudskapet "NVDB er flaskehalsen" overlever altså en dobling av tidbruk-formelen for de to mest realistiske scenarioene, mens det svekkes marginalt i det optimistiske 96 %-scenarioet.
 
 MIP-modellen er ikke kjørt med skalert tidbruk. Siden uniform skalering bevarer relativ rangering mellom kommuner, antas omfordelingsstrategien å være kvalitativt uendret; den marginale forskjellen mellom MIP og heuristikk på makespan (<2,2 %) gjør at en MIP-rekjøring uansett ikke ville rokket ved konklusjonen om NVDB-dominans.
 
@@ -741,16 +741,16 @@ MIP-modellen er ikke kjørt med skalert tidbruk. Siden uniform skalering bevarer
 
 **Sensitivitet for automasjonsgrad-standardavviket.** Standardavviket på 0,03 brukt i Monte Carlo er et designvalg, ikke en empirisk størrelse. For å kvantifisere designvalget er Monte Carlo rekjørt med std ∈ {0,01; 0,02; 0,03; 0,05} for alle tre scenarioer (`monte_carlo_automasjon_sensitivitet.py`).
 
-| Std | Basis_85 P5/P50/P95 (år) | Middels_90 P5/P50/P95 (år) | Samferdsel_96 P5/P50/P95 (år) |
+| Std | 85 % P5/P50/P95 (år) | 90 % P5/P50/P95 (år) | 96 % P5/P50/P95 (år) |
 |-----|---------------------------|------------------------------|----------------------------------|
 | 0,01 | 8,75 / 10,09 / 11,39 | 5,45 / 6,72 / 7,87 | 1,51 / 2,66 / 3,75 |
 | 0,02 | 7,60 / 10,10 / 12,29 | 4,31 / 6,67 / 8,85 | 1,38 / 2,66 / 4,81 |
 | 0,03 | 6,46 / 10,01 / 13,28 | 3,20 / 6,67 / 9,93 | 1,38 / 2,68 / 5,86 |
 | 0,05 | 4,22 / 10,01 / 15,38 | 1,41 / 6,65 / 12,03 | 1,37 / 2,70 / 8,06 |
 
-Tabellens std = 0,03-rad er fra denne sensitivitetsjobben og avviker marginalt fra hoved-Monte Carlo-tallene i 8.1 (P95 9,93 vs 9,91 for Middels_90; P50 2,68 vs 2,36 for Samferdsel_96) pga. ulik tilfeldig-tall-seed mellom kjøringene; avvikene ligger innenfor stokastisk variasjon ved 500 iterasjoner og påvirker ikke de kvalitative funnene.
+Tabellens std = 0,03-rad er fra denne sensitivitetsjobben og avviker marginalt fra hoved-Monte Carlo-tallene i 8.1 (P95 9,93 vs 9,91 for 90 %-scenarioet; P50 2,68 vs 2,36 for 96 %-scenarioet) pga. ulik tilfeldig-tall-seed mellom kjøringene; avvikene ligger innenfor stokastisk variasjon ved 500 iterasjoner og påvirker ikke de kvalitative funnene.
 
-Median (P50) er praktisk talt uendret på tvers av std-verdier — det betyr at standardavviket ikke flytter sentraltendensen, kun haleformen. P5-P95-båndet utvider seg derimot monotont: ved std = 0,01 er båndet 2,6 år bredt for Basis_85, mens det er 11,2 år ved std = 0,05. Konsekvensen for scenario-overlapping er tydelig: ved std = 0,01 ligger P5–P95-båndene helt adskilt (Middels_90 P95 = 7,87 < Basis_85 P5 = 8,75), mens ved std ≥ 0,02 begynner båndene å overlappe. Verdien 0,03 ligger som et rimelig kompromiss mellom et urealistisk "skarpt" scenarioskille (std = 0,01, som ville framstilt designet av tre punkter i automasjonsgrad som skarpere bevisst enn det er) og en for vid haleestimering (std = 0,05) der P95 for Samferdsel_96 vokser til 8 år — utenfor det realistiske spennet samferdselsavdelingen selv anslår.
+Median (P50) er praktisk talt uendret på tvers av std-verdier — det betyr at standardavviket ikke flytter sentraltendensen, kun haleformen. P5-P95-båndet utvider seg derimot monotont: ved std = 0,01 er båndet 2,6 år bredt for 85 %-scenarioet, mens det er 11,2 år ved std = 0,05. Konsekvensen for scenario-overlapping er tydelig: ved std = 0,01 ligger P5–P95-båndene helt adskilt (90 %-scenarioet P95 = 7,87 < 85 %-scenarioet P5 = 8,75), mens ved std ≥ 0,02 begynner båndene å overlappe. Verdien 0,03 ligger som et rimelig kompromiss mellom et urealistisk "skarpt" scenarioskille (std = 0,01, som ville framstilt designet av tre punkter i automasjonsgrad som skarpere bevisst enn det er) og en for vid haleestimering (std = 0,05) der P95 for 96 %-scenarioet vokser til 8 år — utenfor det realistiske spennet samferdselsavdelingen selv anslår.
 
 **Deterministisk rammeverk utenfor de tre stokastiske kildene.** Monte Carlo varierer kun MIN/KM, manuell NVDB-takt og automasjonsgrad. Geovekst-låseperioder, kartkontor-kapasitet og fremdriftsstatus (62 ferdig, 48 påbegynt) holdes konstante i alle 500 iterasjoner. I virkeligheten kan Geovekst-prosjekter forsinkes eller fremskyndes, og kapasiteten kan variere fra år til år med personalomsetning og konkurrerende oppgaver. Usikkerhetsintervallene P5–P95 reflekterer derfor stokastikk i tre av flere mulige dimensjoner, og reell usikkerhet i absolutt varighet er bredere enn tallene antyder. Kapasitets-sensitivitetsanalysen i 7.4 dekker deler av dette gapet ved å kjøre deterministiske varianter (S0–S5), men en kombinert stokastisk-deterministisk analyse er utenfor prosjektets omfang.
 
@@ -760,7 +760,7 @@ Median (P50) er praktisk talt uendret på tvers av std-verdier — det betyr at 
 
 **Kapasitets-sensitivitetens lave kontrast.** Den deterministiske kapasitets-sensitiviteten (S0–S5) viser identisk makespan på tvers av alle seks varianter. Kartkontor-ferdigtiden er også stabil (10–11 måneder i S0–S4, 14 måneder i S5 med halvert kapasitet), fordi Geovekst-låseperiodene tvinger kontorene til ufrivillig slakk på 152 kommuner i deler av 2026. Denne slakken absorberer kapasitetskuttet og holder kartkontor-fasen kort. For Kartverket betyr dette at dagens plan er *mer* robust mot kapasitetsreduksjon enn man umiddelbart skulle tro ut fra ukesverk-tallene alene.
 
-**CBC-solver på grensen for hardeste varianter.** Av de 18 kapasitets-kjøringene løser 9 *Optimal* innen 30-minuttersgrensen (Middels_90/Samferdsel_96 for S0 og S3, Middels_90 for S1, alle tre for S2, og Basis_85 for S4); de resterende 9 ender som *Not Solved*. Makespan-tallene er robuste (big-M-gated til NVDB-drenering og styres av Q-variablene), men omfordelings- og kartkontor-ferdigtall for Not Solved-variantene er IP-feasible incumbenter uten bevist optimalitet. S5_Alle_minus50 rapporterer kartkontor-ferdigmåned 14 mot matematisk minimum 14,4 — plausibelt, men bør leses som nær-optimalt ved timeout, ikke bevist løsning.
+**CBC-solver på grensen for hardeste varianter.** Av de 18 kapasitets-kjøringene løser 9 *Optimal* innen 30-minuttersgrensen (90 %/96 % for S0 og S3, 90 % for S1, alle tre for S2, og 85 % for S4); de resterende 9 ender som *Not Solved*. Makespan-tallene er robuste (big-M-gated til NVDB-drenering og styres av Q-variablene), men omfordelings- og kartkontor-ferdigtall for Not Solved-variantene er IP-feasible incumbenter uten bevist optimalitet. S5_Alle_minus50 rapporterer kartkontor-ferdigmåned 14 mot matematisk minimum 14,4 — plausibelt, men bør leses som nær-optimalt ved timeout, ikke bevist løsning.
 
 **Validering mot ferdige kommuner.** Kartverket registrerer ikke faktisk tidsbruk per kommune ved TVS-kvalitetsheving, og tidbruk-formelen er derfor ikke validert mot ground truth (jf. 9.2). Et oppfølgingstiltak ville være å registrere tidsbruk for de gjenstående 295 kommunene slik at modellen kan kalibreres underveis.
 
